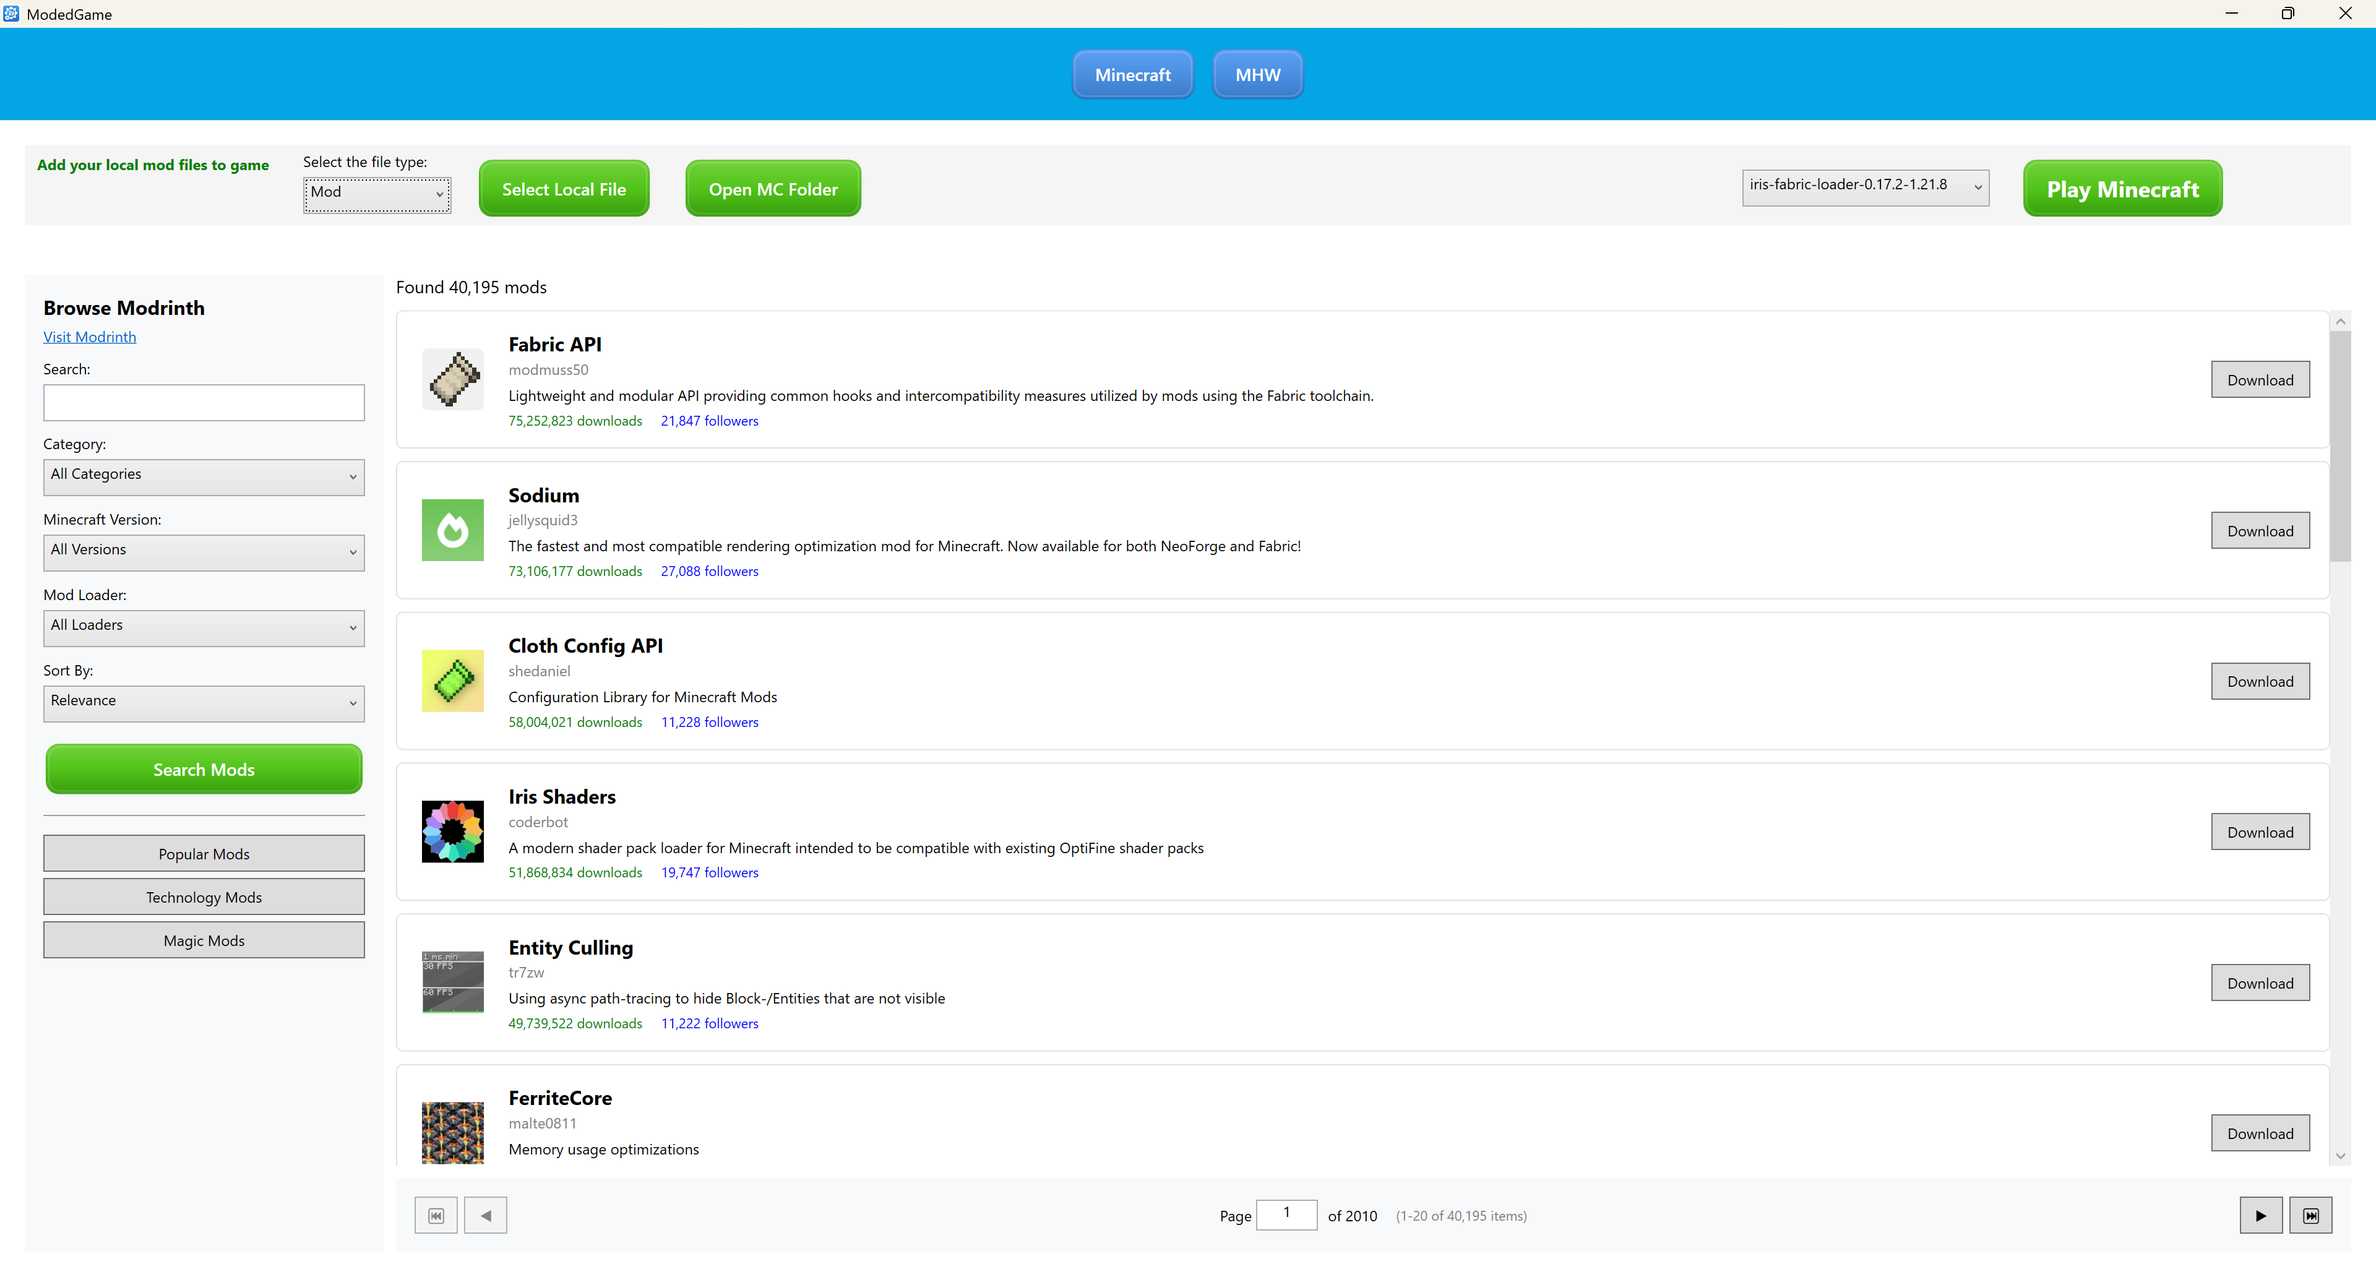
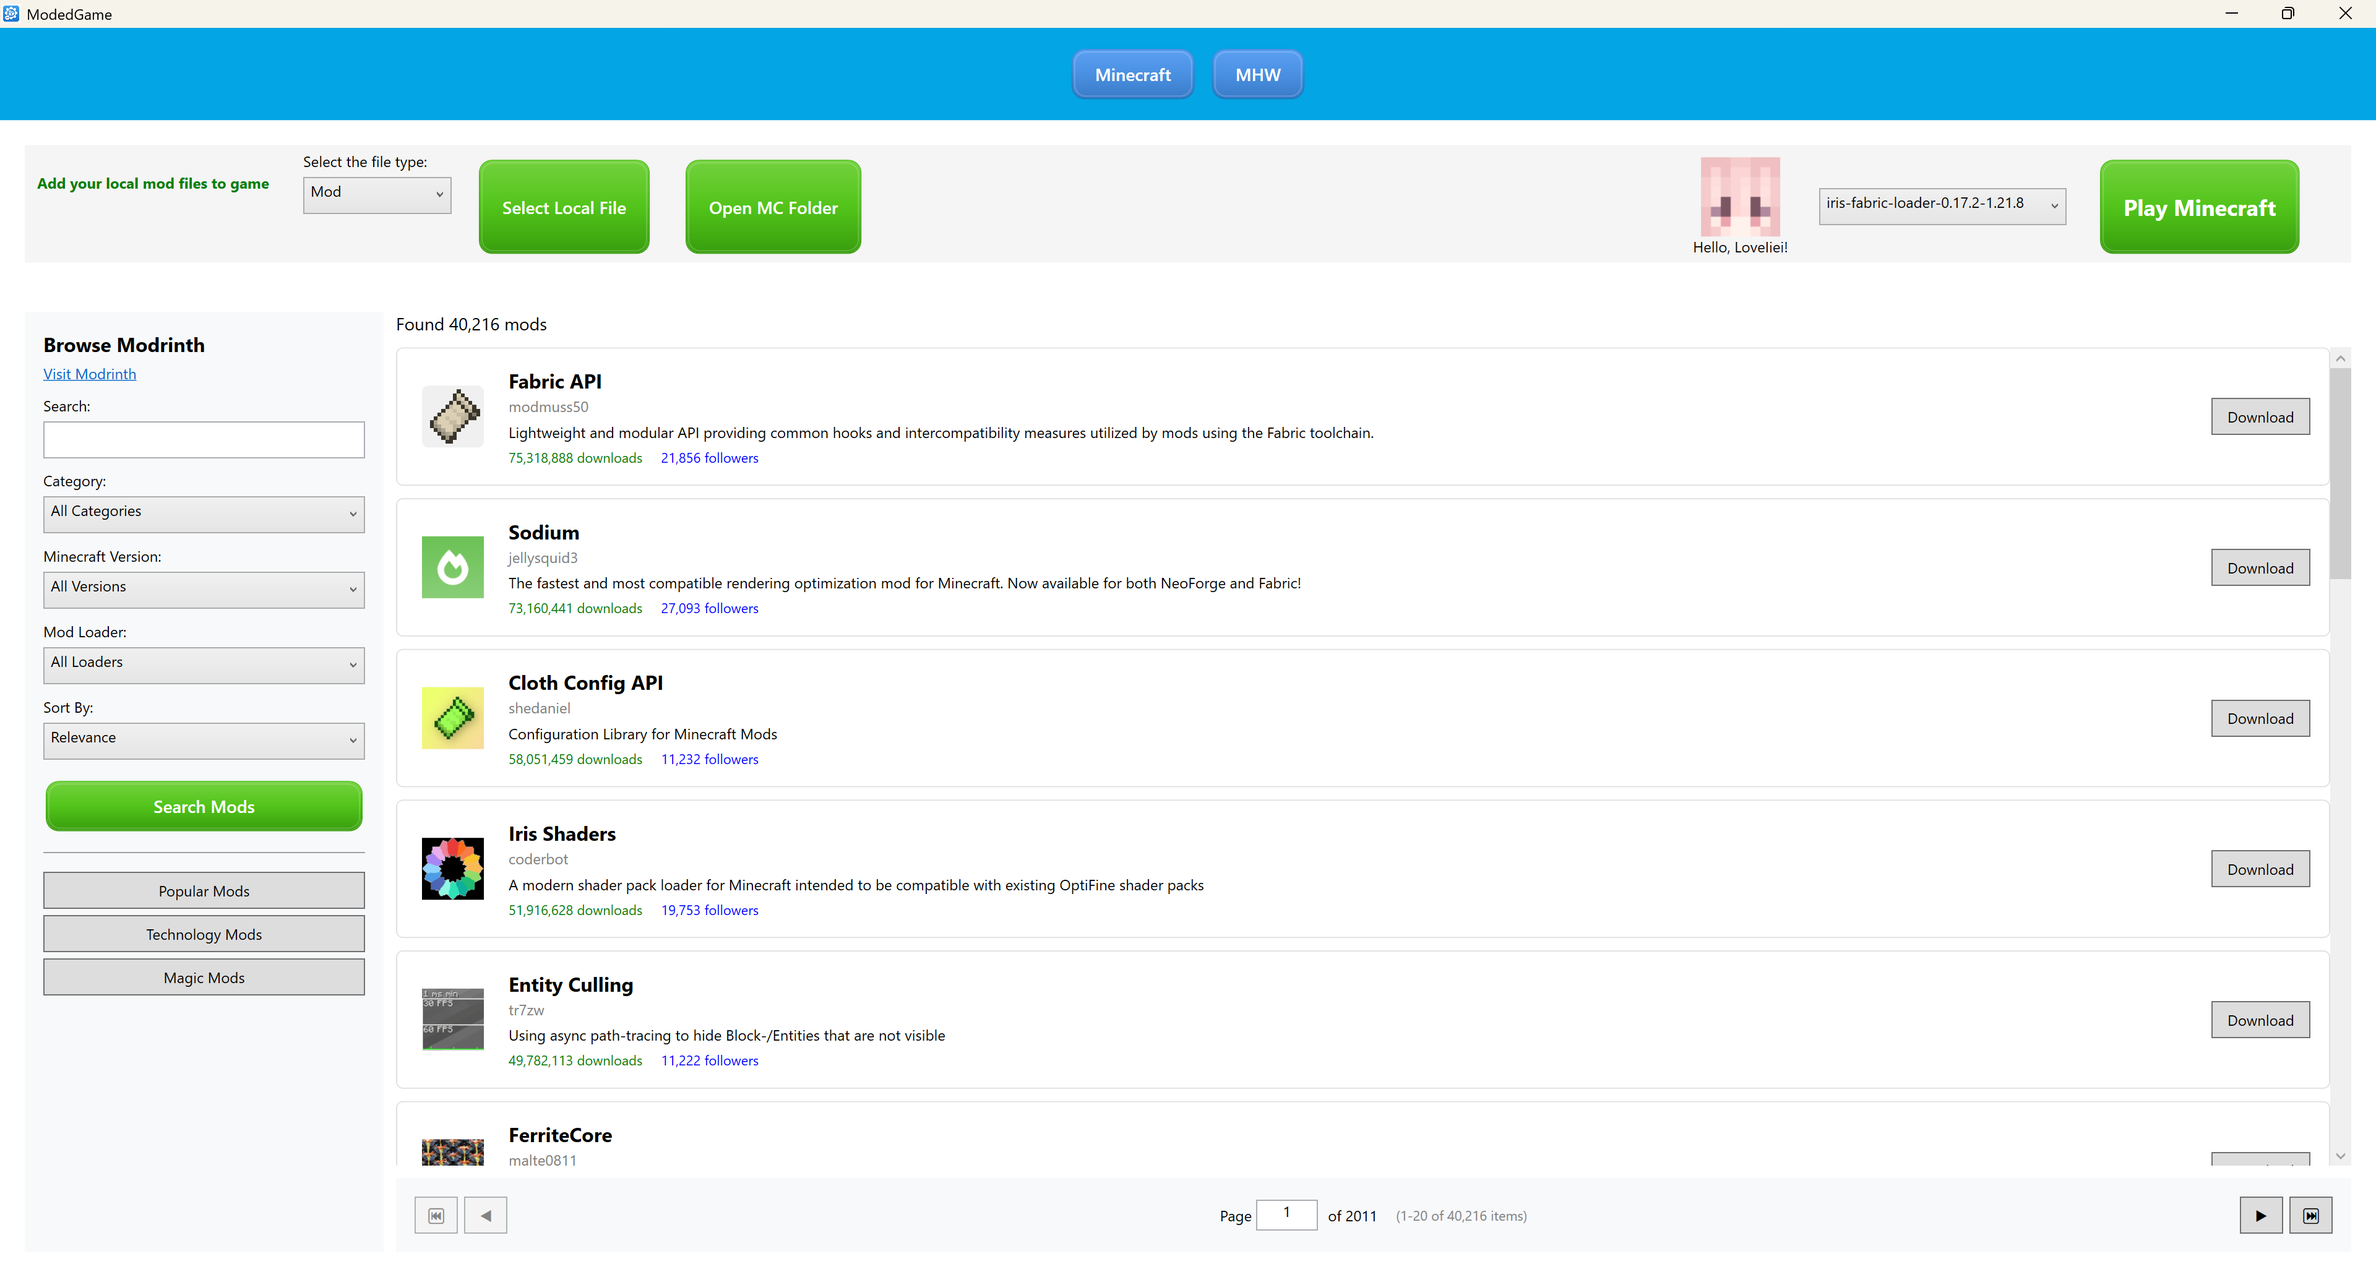
allows user to login for own profile in multiplayer

diff --git a/ModedGame/Pages/MinecraftPage.xaml b/ModedGame/Pages/MinecraftPage.xaml
@@ -44,9 +44,26 @@
                     Margin="15,10,10,5" 
                     Click="OpenFolder_Click"/>
 
+            <StackPanel x:Name="LoggedOutView" VerticalAlignment="Center" 
+                        Margin="660,10,10,5" HorizontalAlignment="Center">
+                <Button x:Name="LoginMC" Content="Login MC" 
+                    Style="{StaticResource SuccessButtonStyle}" 
+                    Click="LoginMC_Click"/>
+                <TextBlock Text="Login to use your profile in Multiplayer"
+                           FontSize="8"></TextBlock>
+            </StackPanel>
+
+            <!-- Logged-In View (hidden by default) -->
+            <StackPanel x:Name="LoggedInView" VerticalAlignment="Center" 
+                        Margin="660,10,10,5" HorizontalAlignment="Center" Visibility="Collapsed">
+                <Image x:Name="PlayerAvatar" Width="64" Height="64"/>
+                <TextBlock x:Name="WelcomeMessage" Text="Hello, Player!" HorizontalAlignment="Center"/>
+            </StackPanel>
+
+
             <ComboBox
                 x:Name="GameVersionPicker" Width="200" Height="30"
-                Margin="700,10,10,5"
+                Margin="15,10,10,5"
             ></ComboBox>
             <Button x:Name="StartMinecraft" Style="{StaticResource SuccessButtonStyle}"
                     Content="Play Minecraft"

diff --git a/ModedGame/Services/MCAuthenticationService.cs b/ModedGame/Services/MCAuthenticationService.cs
@@ -1,0 +1,176 @@
+using Microsoft.Identity.Client;
+using Microsoft.Identity.Client.Extensions.Msal;
+using ModedGame.Models;
+using System.IO;
+using System.Net.Http;
+using System.Net.Http.Headers;
+using System.Text.Json;
+using System.Threading.Tasks;
+
+namespace ModedGame.Services
+{
+    public class MCAuthenticationService
+    {
+        private const string ClientId = "47f04401-8b21-48b3-ae4b-20e7187c2341";
+
+        private readonly IPublicClientApplication _msalClient;
+        private readonly HttpClient _httpClient;
+
+        private MCAuthenticationService(IPublicClientApplication msalClient)
+        {
+            _msalClient = msalClient;
+            _httpClient = new HttpClient();
+        }
+
+        // This is the new, simplified factory method
+        public static async Task<MCAuthenticationService> CreateAsync()
+        {
+            var cacheDirectory = Path.Combine(Environment.GetFolderPath(Environment.SpecialFolder.LocalApplicationData), "MyMinecraftLauncher");
+            var cacheFileName = "msal_cache.dat";
+
+            //  Ensure the directory exists.
+            if (!Directory.Exists(cacheDirectory))
+            {
+                Directory.CreateDirectory(cacheDirectory);
+            }
+
+            //    Build the storage properties without the missing helper methods.
+            //    On Windows, the library will automatically use DPAPI for encryption by default.
+            var storageProperties =
+                new StorageCreationPropertiesBuilder(cacheFileName, cacheDirectory)
+                .Build();
+
+            //  Create the MSAL application.
+            var app = PublicClientApplicationBuilder.Create(ClientId)
+                .WithAuthority(AadAuthorityAudience.PersonalMicrosoftAccount)
+                .WithRedirectUri("http://localhost")
+                .Build();
+
+            //  Wire up the file cache. This part remains the same.
+            var cacheHelper = await MsalCacheHelper.CreateAsync(storageProperties);
+            cacheHelper.RegisterCache(app.UserTokenCache);
+
+            return new MCAuthenticationService(app);
+        }
+
+        public async Task<MCUserInfoModel> Authenticate(bool silent=false)
+        {
+            AuthenticationResult authResult;
+
+            var accounts = await _msalClient.GetAccountsAsync();
+
+            try
+            {
+                // Always try silent first
+                authResult = await _msalClient.AcquireTokenSilent(new[] { "XboxLive.signin" }, accounts.FirstOrDefault())
+                    .ExecuteAsync();
+            }
+            catch (MsalUiRequiredException)
+            {
+                // If silent fails AND we are in interactive mode, show the browser
+                if (!silent)
+                {
+                    authResult = await _msalClient.AcquireTokenInteractive(new[] { "XboxLive.signin" })
+                        .WithUseEmbeddedWebView(false)
+                        .ExecuteAsync(CancellationToken.None);
+                }
+                else
+                {
+                    // If silent fails and we are in silent-only mode, re-throw the exception
+                    throw;
+                }
+            }
+            var xblToken = await GetXboxLiveToken(authResult.AccessToken);
+            var (xstsToken, userHash) = await GetXstsToken(xblToken);
+            var mcAccessToken = await GetMinecraftToken(userHash, xstsToken);
+            var profile = await GetMinecraftProfile(mcAccessToken);
+
+            return new MCUserInfoModel
+            {
+                Username = profile.GetProperty("name").GetString(),
+                Uuid = profile.GetProperty("id").GetString(),
+                AccessToken = mcAccessToken
+            };
+        }
+
+        private async Task<string> GetXboxLiveToken(string msalToken)
+        {
+            var requestBody = new
+            {
+                Properties = new { AuthMethod = "RPS", SiteName = "user.auth.xboxlive.com", RpsTicket = $"d={msalToken}" },
+                RelyingParty = "http://auth.xboxlive.com",
+                TokenType = "JWT"
+            };
+            return await SendJsonRequest<string>(
+                "https://user.auth.xboxlive.com/user/authenticate",
+                requestBody,
+                json => json.RootElement.GetProperty("Token").GetString(),
+                "GetXboxLiveToken"
+            );
+        }
+
+        private async Task<(string, string)> GetXstsToken(string xblToken)
+        {
+            var requestBody = new
+            {
+                Properties = new { SandboxId = "RETAIL", UserTokens = new[] { xblToken } },
+                RelyingParty = "rp://api.minecraftservices.com/",
+                TokenType = "JWT"
+            };
+            return await SendJsonRequest(
+                "https://xsts.auth.xboxlive.com/xsts/authorize",
+                requestBody,
+                json => (
+                    json.RootElement.GetProperty("Token").GetString(),
+                    json.RootElement.GetProperty("DisplayClaims").GetProperty("xui")[0].GetProperty("uhs").GetString()
+                ),
+                "GetXstsToken"
+            );
+        }
+
+        private async Task<string> GetMinecraftToken(string userHash, string xstsToken)
+        {
+            var requestBody = new { identityToken = $"XBL3.0 x={userHash};{xstsToken}" };
+            return await SendJsonRequest<string>(
+                "https://api.minecraftservices.com/authentication/login_with_xbox",
+                requestBody,
+                json => json.RootElement.GetProperty("access_token").GetString(),
+                "GetMinecraftToken"
+            );
+        }
+
+        private async Task<JsonElement> GetMinecraftProfile(string mcToken)
+        {
+            var request = new HttpRequestMessage(HttpMethod.Get, "https://api.minecraftservices.com/minecraft/profile");
+            request.Headers.Authorization = new AuthenticationHeaderValue("Bearer", mcToken);
+
+            using var response = await _httpClient.SendAsync(request);
+
+            if (!response.IsSuccessStatusCode)
+            {
+                string errorContent = await response.Content.ReadAsStringAsync();
+                throw new Exception($"Error during GetMinecraftProfile (HTTP {(int)response.StatusCode}). Server says: {errorContent}");
+            }
+
+            return (await JsonDocument.ParseAsync(await response.Content.ReadAsStreamAsync())).RootElement;
+        }
+
+        // Generic helper method to reduce code duplication and provide detailed error messages
+        private async Task<T> SendJsonRequest<T>(string url, object requestBody, Func<JsonDocument, T> extractResult, string methodName)
+        {
+            var requestJson = JsonSerializer.Serialize(requestBody);
+            var content = new StringContent(requestJson, System.Text.Encoding.UTF8, "application/json");
+            using var response = await _httpClient.PostAsync(url, content);
+
+            if (!response.IsSuccessStatusCode)
+            {
+                // This is the important part! We read the error body.
+                string errorContent = await response.Content.ReadAsStringAsync();
+                throw new Exception($"Error during {methodName} (HTTP {(int)response.StatusCode}). Server says: {errorContent}");
+            }
+
+            var responseJson = await JsonDocument.ParseAsync(await response.Content.ReadAsStreamAsync());
+            return extractResult(responseJson);
+        }
+    }
+}

diff --git a/ModedGame/Pages/MinecraftPage.xaml.cs b/ModedGame/Pages/MinecraftPage.xaml.cs
@@ -9,6 +9,7 @@ using System.IO.Compression;
 using System.Text.Json;
 using System.Windows;
 using System.Windows.Controls;
+using System.Windows.Media.Imaging;
 using System.Windows.Navigation;
 using Path = System.IO.Path;
 
@@ -26,6 +27,9 @@ namespace ModedGame.Pages
         private int _totalPages = 0;
         private ModrinthSearchResponse _lastSearchResult;
         private Func<int, int, Task<ModrinthSearchResponse>> _currentSearchFunction;
+        private MCUserInfoModel _currentUser;
+        private MCAuthenticationService _authenticator;
+
         public MinecraftPage()
         {
             InitializeComponent();
@@ -33,6 +37,7 @@ namespace ModedGame.Pages
             DataContext = new MCFileTypeViewModel();
             LoadInstalledVersions();
             UpdatePaginationUI();
+            this.Loaded += async (s, e) => await InitializeAsync();
         }
         private void FileTypePicker_SelectionChanged(object sender, SelectionChangedEventArgs e)
         {
@@ -156,6 +161,71 @@ namespace ModedGame.Pages
             string folderPath = Get_FolderPath();
             Process.Start("explorer.exe", folderPath);
         }
+
+        private async Task InitializeAsync()
+        {
+            // Create the authenticator with its persistent cache
+            _authenticator = await MCAuthenticationService.CreateAsync();
+            // Check if the user is already logged in from a previous session
+            await TrySilentLoginAsync();
+        }
+
+        // Tries to log the user in without showing a browser
+        private async Task TrySilentLoginAsync()
+        {
+            try
+            {
+                // Call Authenticate in SILENT mode
+                _currentUser = await _authenticator.Authenticate(silent: true);
+                UpdateUiForLoggedInUser();
+            }
+            catch (Exception)
+            {
+                // This is expected if the user is not logged in.
+                _currentUser = null;
+                UpdateUiForLoggedOutUser();
+            }
+        }
+
+        // This runs when the user clicks the login button
+        private async void LoginMC_Click(object sender, RoutedEventArgs e)
+        {
+            try
+            {
+                // Call Authenticate in INTERACTIVE mode
+                _currentUser = await _authenticator.Authenticate(silent: false);
+                UpdateUiForLoggedInUser();
+            }
+            catch (Exception ex)
+            {
+                MessageBox.Show($"Failed to login: {ex.Message}");
+                _currentUser = null;
+                UpdateUiForLoggedOutUser();
+            }
+        }
+
+        // Helper method to show the logged-in UI
+        private void UpdateUiForLoggedInUser()
+        {
+            if (_currentUser == null) return;
+
+            WelcomeMessage.Text = $"Hello, {_currentUser.Username}!";
+
+            // Use a service like Crafatar to get the player's avatar
+            var avatarUrl = $"https://crafatar.com/avatars/{_currentUser.Uuid}?size=64&overlay";
+            PlayerAvatar.Source = new BitmapImage(new Uri(avatarUrl));
+
+            LoggedOutView.Visibility = Visibility.Collapsed;
+            LoggedInView.Visibility = Visibility.Visible;
+        }
+
+        // Helper method to show the logged-out UI
+        private void UpdateUiForLoggedOutUser()
+        {
+            LoggedOutView.Visibility = Visibility.Visible;
+            LoggedInView.Visibility = Visibility.Collapsed;
+        }
+
 
         private async void SearchMods_Click(object sender, RoutedEventArgs e)
         {
@@ -518,7 +588,7 @@ namespace ModedGame.Pages
             try
             {
                 var launcher = new SimplifiedMinecraftLauncher();
-                launcher.LaunchMinecraft(selectedVersion);
+                launcher.LaunchMinecraft(selectedVersion, _currentUser);
                 MessageBox.Show($"Minecraft {selectedVersion} launched!");
             }
             catch (Exception ex)
@@ -591,7 +661,7 @@ namespace ModedGame.Pages
                 }
             }
 
-            public void LaunchMinecraft(string version)
+            public void LaunchMinecraft(string version, MCUserInfoModel user)
             {
                 // Use the new method to get the complete, merged version info
                 var versionInfo = GetMergedVersionInfo(version);
@@ -614,7 +684,7 @@ namespace ModedGame.Pages
                 SetupNatives(versionInfo, nativesDir);
 
                 var classpath = BuildClasspath(versionInfo, versionJar);
-                var cmd = BuildLaunchCommand(versionInfo, version, classpath, nativesDir); // Pass the full versionInfo
+                var cmd = BuildLaunchCommand(versionInfo, version, classpath, nativesDir, user); // Pass the full versionInfo
 
                 var startInfo = new ProcessStartInfo
                 {
@@ -703,7 +773,8 @@ namespace ModedGame.Pages
                 return Path.Combine(minecraftDir, "libraries", group, artifact, version, jarName);
             }
 
-            private string BuildLaunchCommand(MCVersionInfo versionInfo, string version, string classpath, string nativesDir)
+            private string BuildLaunchCommand(MCVersionInfo versionInfo, string version, 
+                string classpath, string nativesDir, MCUserInfoModel user)
             {
                 var args = new List<string>();
 
@@ -734,17 +805,18 @@ namespace ModedGame.Pages
                     }
                 }
 
+
                 // Define placeholders with RAW, UNQUOTED values
                 var replacements = new Dictionary<string, string>
                 {
-                    { "${auth_player_name}", "Player" },
+                    { "${auth_player_name}", user.Username ?? "Player" },
                     { "${version_name}", version },
                     { "${game_directory}", minecraftDir }, // No quotes!
                     { "${assets_root}", Path.Combine(minecraftDir, "assets") }, // No quotes!
                     { "${assets_index_name}", versionInfo.AssetIndex?.Id ?? versionInfo.InheritsFrom ?? version },
-                    { "${auth_uuid}", "00000000-0000-0000-0000-000000000000" },
-                    { "${auth_access_token}", "0" },
-                    { "${user_type}", "legacy" },
+                    { "${auth_uuid}", user.Uuid ?? "00000000-0000-0000-0000-000000000000" },
+                    { "${auth_access_token}", user.AccessToken ?? "0" },
+                    { "${user_type}", user != null ? "msa" : "legacy" },
                     { "${version_type}", "release" },
                     { "${natives_directory}", nativesDir }, // No quotes!
                     { "${launcher_name}", "MyLauncher" },

diff --git a/ModedGame/Models/MCUserInfoModel.cs b/ModedGame/Models/MCUserInfoModel.cs
@@ -1,0 +1,9 @@
+namespace ModedGame.Models
+{
+    public class MCUserInfoModel
+    {
+        public string Username { get; set; }
+        public string Uuid { get; set; }
+        public string AccessToken { get; set; }
+    }
+}
